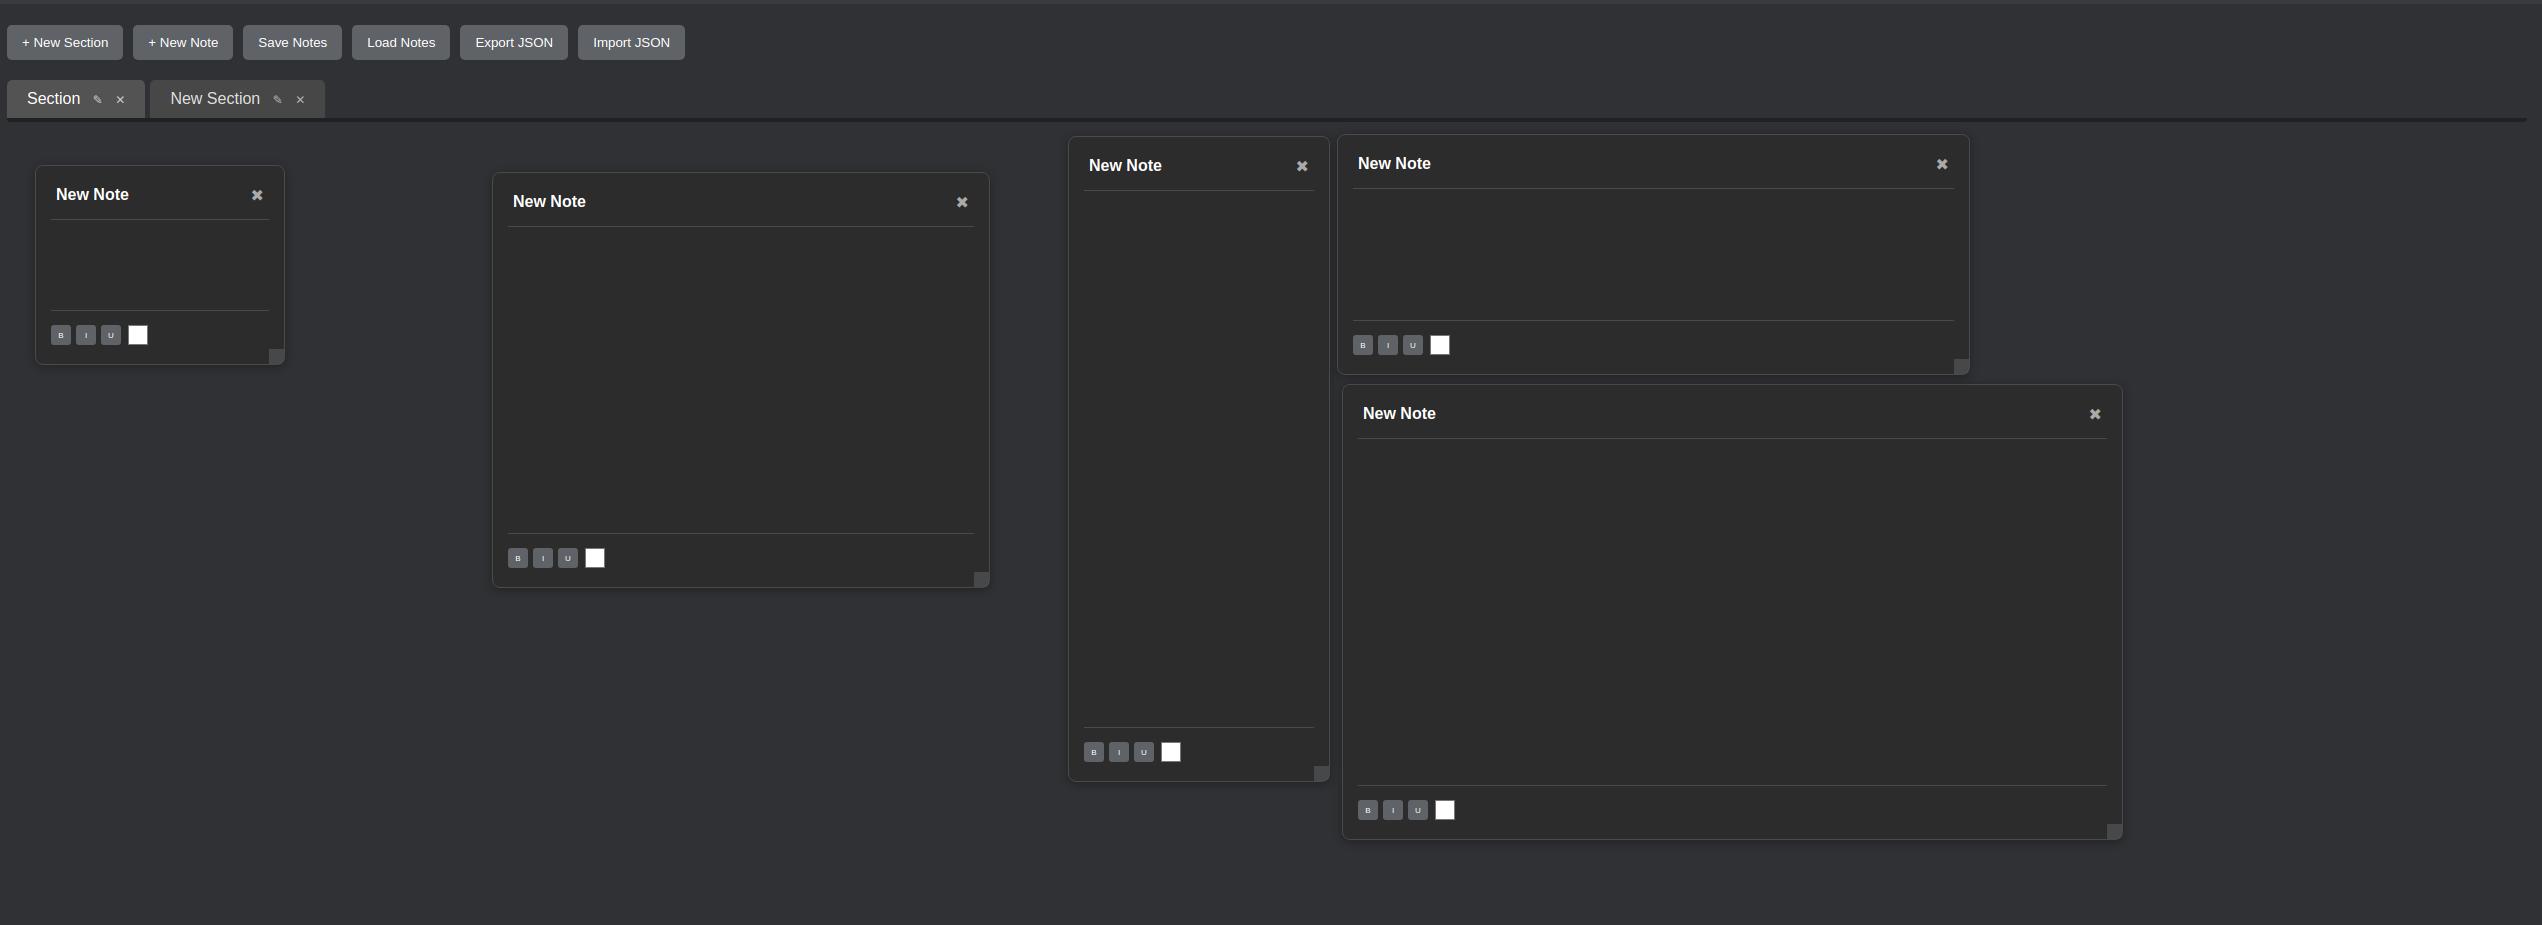
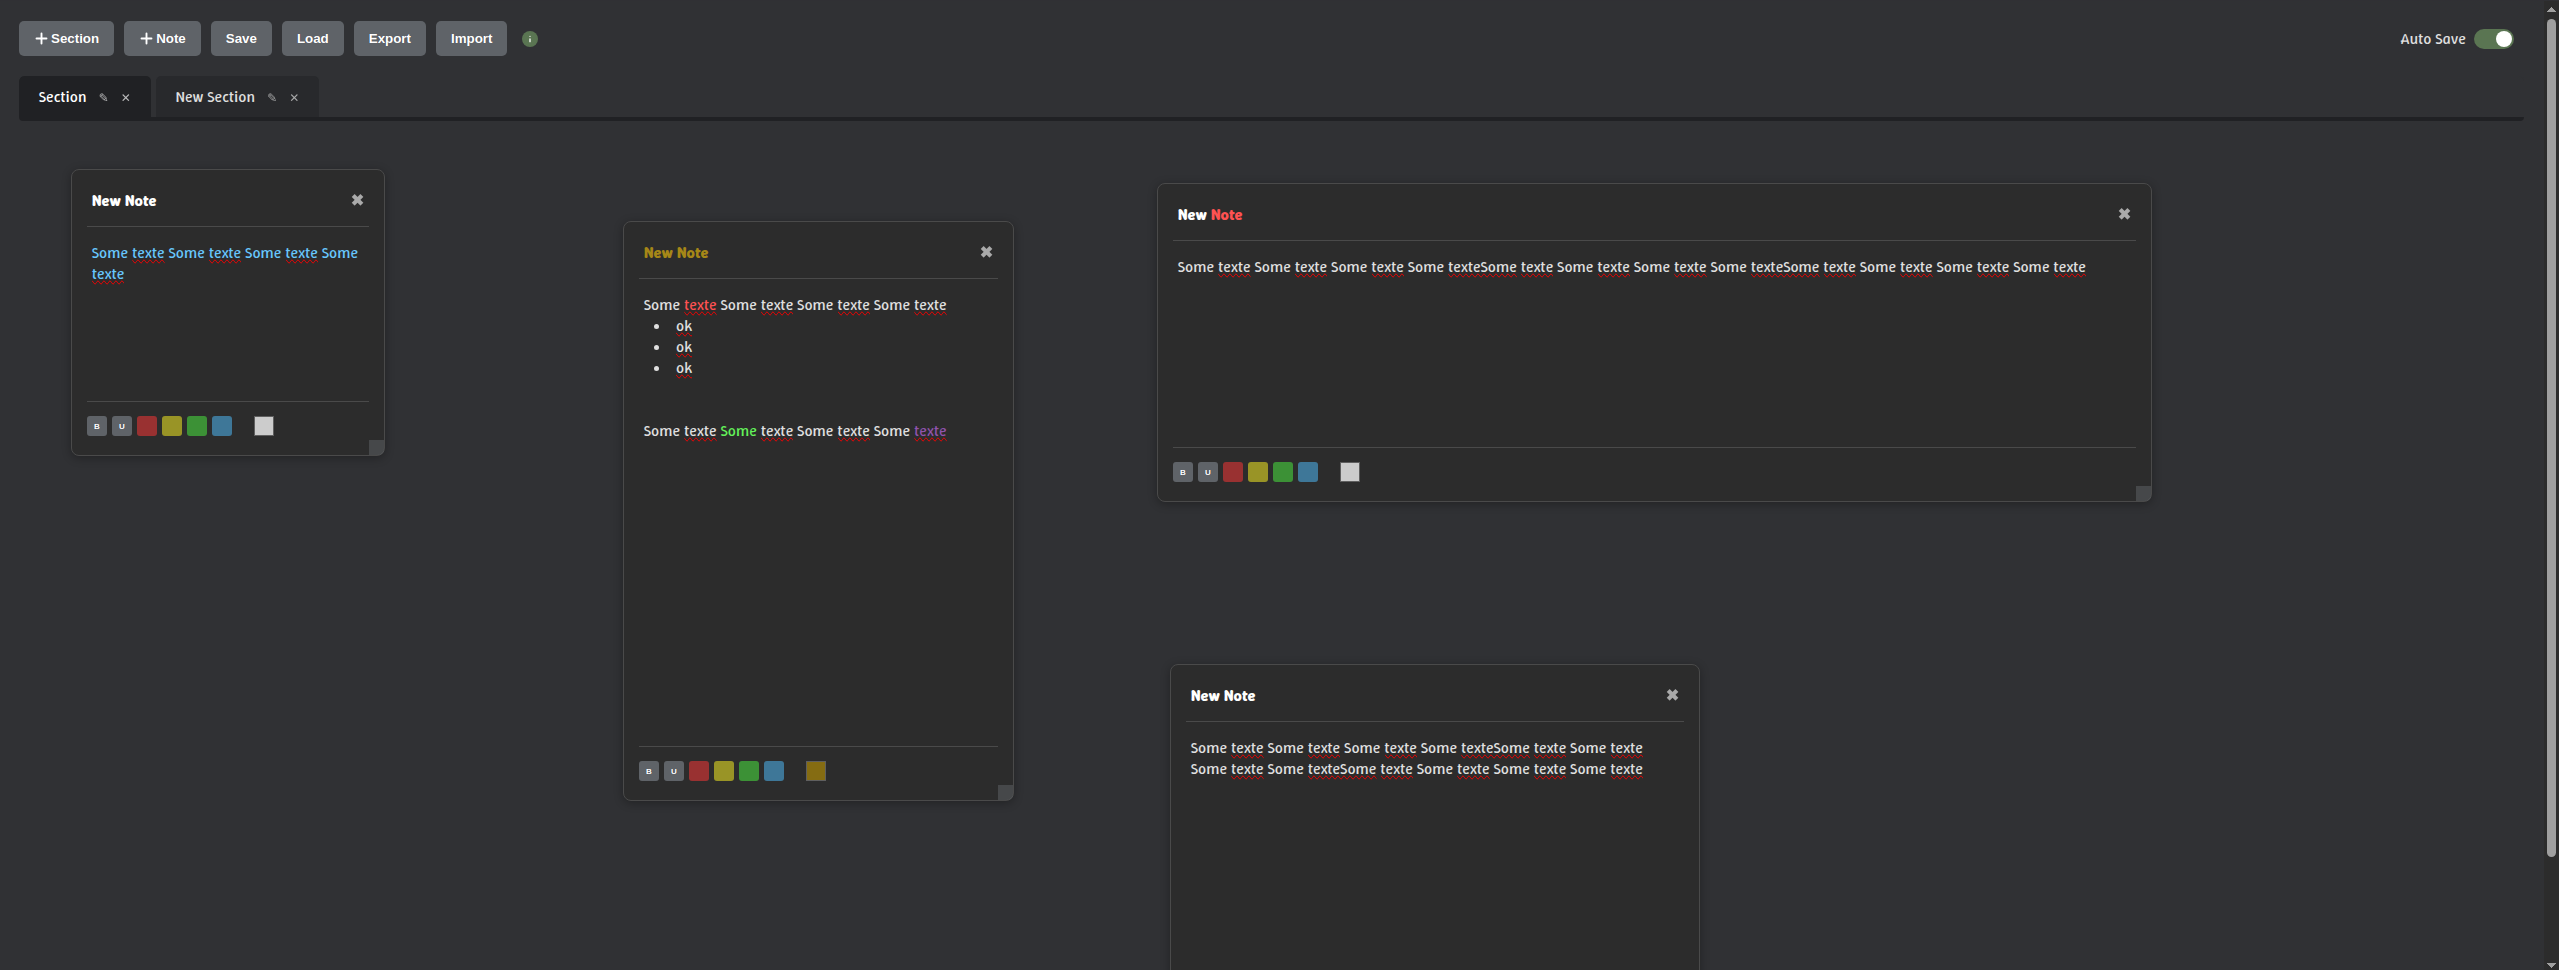
✬ add bulleted

diff --git a/script.js b/script.js
@@ -13,7 +13,7 @@ class NotesApp {
         this.setupKeyboardShortcuts();
 
         this.initAutoSave();
-    
+
         if (this.sections.length === 0) {
             this.createDefaultSection();
         }
@@ -55,6 +55,99 @@ class NotesApp {
                 this.saveNotesToLocalStorage(true);
             }
         });
+
+        window.showPopup = function (wrapper) {
+            const popup = wrapper.querySelector('.info-popup');
+            const btn = wrapper.querySelector('.info-btn');
+        
+            if (btn.dataset.info) {
+                popup.textContent = btn.dataset.info;
+            } else {
+                popup.innerHTML = infoMap;
+            }
+        
+            popup.style.display = "block";
+        };
+        
+        window.hidePopup = function () {
+            const allPopups = document.querySelectorAll('.info-popup');
+            allPopups.forEach(p => p.style.display = "none");
+        };
+        
+        const infoMap = `
+            <strong>Add Notes</strong>: Create and manage notes easily and quickly.<br>
+            <strong>Add Section</strong>: Create and manage sections like browser tabs easily and quickly.<br>
+            <strong>Drag and Drop</strong>: Move and position notes freely, organizing them however you want.<br>
+            <strong>Bulleted Lists</strong>: Create simple and clean bulleted lists to better structure your information.<br>
+            <strong>Organize by Sections</strong>: Divide notes into different sections for better organization.<br>
+            <strong>Local Storage</strong>: Save notes directly to your browser's local storage.<br>
+            <strong>Auto Save</strong>: Automatically save and load your content.<br>
+            <strong>Export & Import</strong>: Export notes as a JSON file and import them later when needed.
+        `;
+
+        document.addEventListener('focusout', (event) => {
+            this.removeEmptyBullets()
+            if (event.target.classList.contains('note-content')) {
+                event.target.innerHTML = processMarkdown(event.target.innerText);
+            }
+        });
+
+        document.addEventListener('keydown', (event) => {
+            if (!event.target.classList.contains('note-content')) return;
+
+            const selection = window.getSelection();
+            const currentLine = selection.anchorNode?.textContent || "";
+
+            if (event.key === 'Enter') {
+                if (currentLine.trim().startsWith('*')) {
+                    event.preventDefault();
+                    document.execCommand('insertText', false, '\n* ');
+
+                }
+                this.removeEmptyBullets()
+
+            }
+
+            if (event.key === "Backspace") {
+                const selection = window.getSelection();
+                let currentNode = selection.anchorNode;
+
+                if (currentNode && currentNode.nodeType === Node.TEXT_NODE) {
+                    currentNode = currentNode.parentNode;
+                }
+
+                if (currentNode?.tagName === 'LI' && selection.anchorOffset === 0) {
+                    event.preventDefault();
+
+                    const parent = currentNode.parentNode;
+
+                    parent.removeChild(currentNode);
+
+                    const range = document.createRange();
+                    range.setStartAfter(br);
+                    range.collapse(true);
+
+                    selection.removeAllRanges();
+                    selection.addRange(range);
+                }
+            }
+
+        });
+    }
+
+    removeEmptyBullets() {
+        document.querySelectorAll('.note-content li').forEach(li => {
+            if (!li.textContent.trim()) {
+                li.remove();
+            }
+        });
+    }
+
+    processMarkdown(text) {
+        text = text.replace(/^(\*\s)(.*?)$/gm, (_, bullet, content) => {
+            return content.trim() ? `<li id="bulleted">${content.trim()}</li>` : '';
+        });
+        return text;
     }
 
     setupKeyboardShortcuts() {
@@ -73,11 +166,6 @@ class NotesApp {
             else if (e.ctrlKey && e.key === 'u') {
                 e.preventDefault();
                 document.execCommand('underline', false, null);
-            }
-
-            else if (e.ctrlKey && e.key === 'i') {
-                e.preventDefault();
-                document.execCommand('italic', false, null);
             }
 
             else if (e.ctrlKey && e.key === '\\') {
@@ -234,7 +322,6 @@ class NotesApp {
         <div class="note-actions">
             <div class="note-toolbar">
                 <button class="bold-btn" title="Negrito (Ctrl+B)">B</button>
-                <button class="italic-btn" title="Itálico (Ctrl+I)">I</button>
                 <button class="underline-btn" title="Sublinhado (Ctrl+U)">U</button>
                 <input type="color" class="color-picker" value="#ffffff" title="text color">
             </div>
@@ -328,10 +415,19 @@ class NotesApp {
 
     setupNoteActions(noteElement) {
         const boldBtn = noteElement.querySelector('.bold-btn');
-        const italicBtn = noteElement.querySelector('.italic-btn');
         const underlineBtn = noteElement.querySelector('.underline-btn');
         const colorPicker = noteElement.querySelector('.color-picker');
         const deleteBtn = noteElement.querySelector('.delete-btn');
+        const noteContent = noteElement.querySelector('.note-content');
+
+
+        noteContent.addEventListener('blur', () => {
+            const rawText = noteContent.innerText;
+            const processedText = this.processMarkdown(rawText);
+            if (rawText !== processedText) {
+                noteContent.innerHTML = processedText;
+            }
+        });
 
         const predefinedColors = [
             { color: '#FF5252', label: 'Crítico' },      // Vermelho para vulnerabilidades críticas
@@ -363,9 +459,6 @@ class NotesApp {
         boldBtn.addEventListener('click', () => {
             document.execCommand('bold', false, null);
         });
-        italicBtn.addEventListener('click', () => {
-            document.execCommand('italic', false, null);
-        });
         underlineBtn.addEventListener('click', () => {
             document.execCommand('underline', false, null);
         });
@@ -391,7 +484,7 @@ class NotesApp {
         this.autoSaveEnabled = autoSaveEnabled;
 
         if (this.autoSaveEnabled) {
-            this.loadNotesFromLocalStorage(true); 
+            this.loadNotesFromLocalStorage(true);
             this.startAutoSave();
         }
 
@@ -588,8 +681,12 @@ class NotesApp {
 
         reader.readAsText(file);
     }
+
 }
 
 document.addEventListener('DOMContentLoaded', () => {
     const notesApp = new NotesApp();
 });
+
+
+

diff --git a/styles.css b/styles.css
@@ -432,6 +432,65 @@ input:checked+.toggle-slider:before {
 
 .info-message {
     background-color: var(--my-green-color);
-    ;
     color: white;
+}
+
+#bulleted{
+    margin-left: 10px;
+}
+
+.info-wrapper {
+    position: relative;
+    display: inline-flex;
+    align-items: center;
+    justify-content: center;
+    margin-left: 5px;
+}
+
+.info-btn {
+    background-color: var(--my-green-color);
+    border: none;
+    border-radius: 50%;
+    width: 16px;
+    height: 16px;
+    font-weight: bold;
+    cursor: pointer;
+    color: white;
+    padding: 0;
+    font-size: 12px;
+    line-height: 16px;
+    display: flex;
+    align-items: center;
+    justify-content: center;
+    margin: 0;
+}
+
+
+.info-popup {
+    display: none;
+    position: absolute;
+    top: 125%; 
+    /* left: 50%; */
+    transform: translateX(-50%);
+    background-color: #333;
+    color: #fff;
+    padding: 6px 10px;
+    border-radius: 6px;
+    font-size: 17px;
+    white-space: nowrap;
+    z-index: 9999;
+    max-width: 200px;
+    text-align: center;
+    box-shadow: 0 2px 5px rgba(0, 0, 0, 0.2);
+}
+
+.info-popup::after {
+    content: "";
+    position: absolute;
+    top: 100%;
+    left: 50%;
+    margin-left: -5px;
+    border-width: 5px;
+    border-style: solid;
+    border-color: #333 transparent transparent transparent;
 }

diff --git a/index.html b/index.html
@@ -51,6 +51,21 @@
                 <input type="file" id="import-file" accept=".json" style="display: none;">
                 <button id="export-btn">Export</button>
                 <button id="import-btn">Import</button>
+                <div class="info-wrapper" onmouseenter="showPopup(this)" onmouseleave="hidePopup()">
+                    <button class="info-btn">
+                        <svg xmlns="http://www.w3.org/2000/svg" viewBox="0 0 24 24" width="20" height="20"
+                            fill="currentColor">
+                            <circle cx="12" cy="12" r="10" fill="#5a7552" />
+                            <line x1="12" y1="8" x2="12" y2="8" stroke="#fff" stroke-width="2" stroke-linecap="round" />
+                            <line x1="12" y1="12" x2="12" y2="16" stroke="#fff" stroke-width="2"
+                                stroke-linecap="round" />
+                        </svg>
+
+                    </button>
+                    <div class="info-popup" id="info-popup"></div>
+                </div>
+
+
             </div>
             <div class="auto-save-container">
                 <span>Auto Save</span>
@@ -59,6 +74,9 @@
                     <span class="toggle-slider"></span>
                 </label>
             </div>
+
+
+
         </div>
 
         <div id="sections-container">

diff --git a/readme.md b/readme.md
@@ -1,15 +1,18 @@
 # Notes 
-A simple app for taking notes.
+A minimalist and fast app for taking notes.
 
-It was created to record information and gather data during pentests or bug bounty. However, it can also be used in many other situations.
+It was created to record information and gather data during pentests or bug bounty sessions. However, it can also be used in many other situations.
 
 ## Key Features:
 
-- **Add Notes**: Create and manage notes easily and fast.
+- **Add Notes**: Create and manage notes easily and quickly.
+- **Add Section**: Create and manage sections like browser tabs easily and quickly.
 - **Drag and Drop**: Move and position notes freely, organizing them however you want.
 - **Organize by Sections**: Divide notes into different sections for better organization.
 - **Local Storage**: Save notes directly to your browser's local storage.
+- **Auto Save**: Automatically save and load your content.
 - **Export & Import**: Export notes as a JSON file and import them later when needed.
+- **Bulleted Lists**: Create simple and clean bulleted lists to better structure your information.
 
 <br>
 
